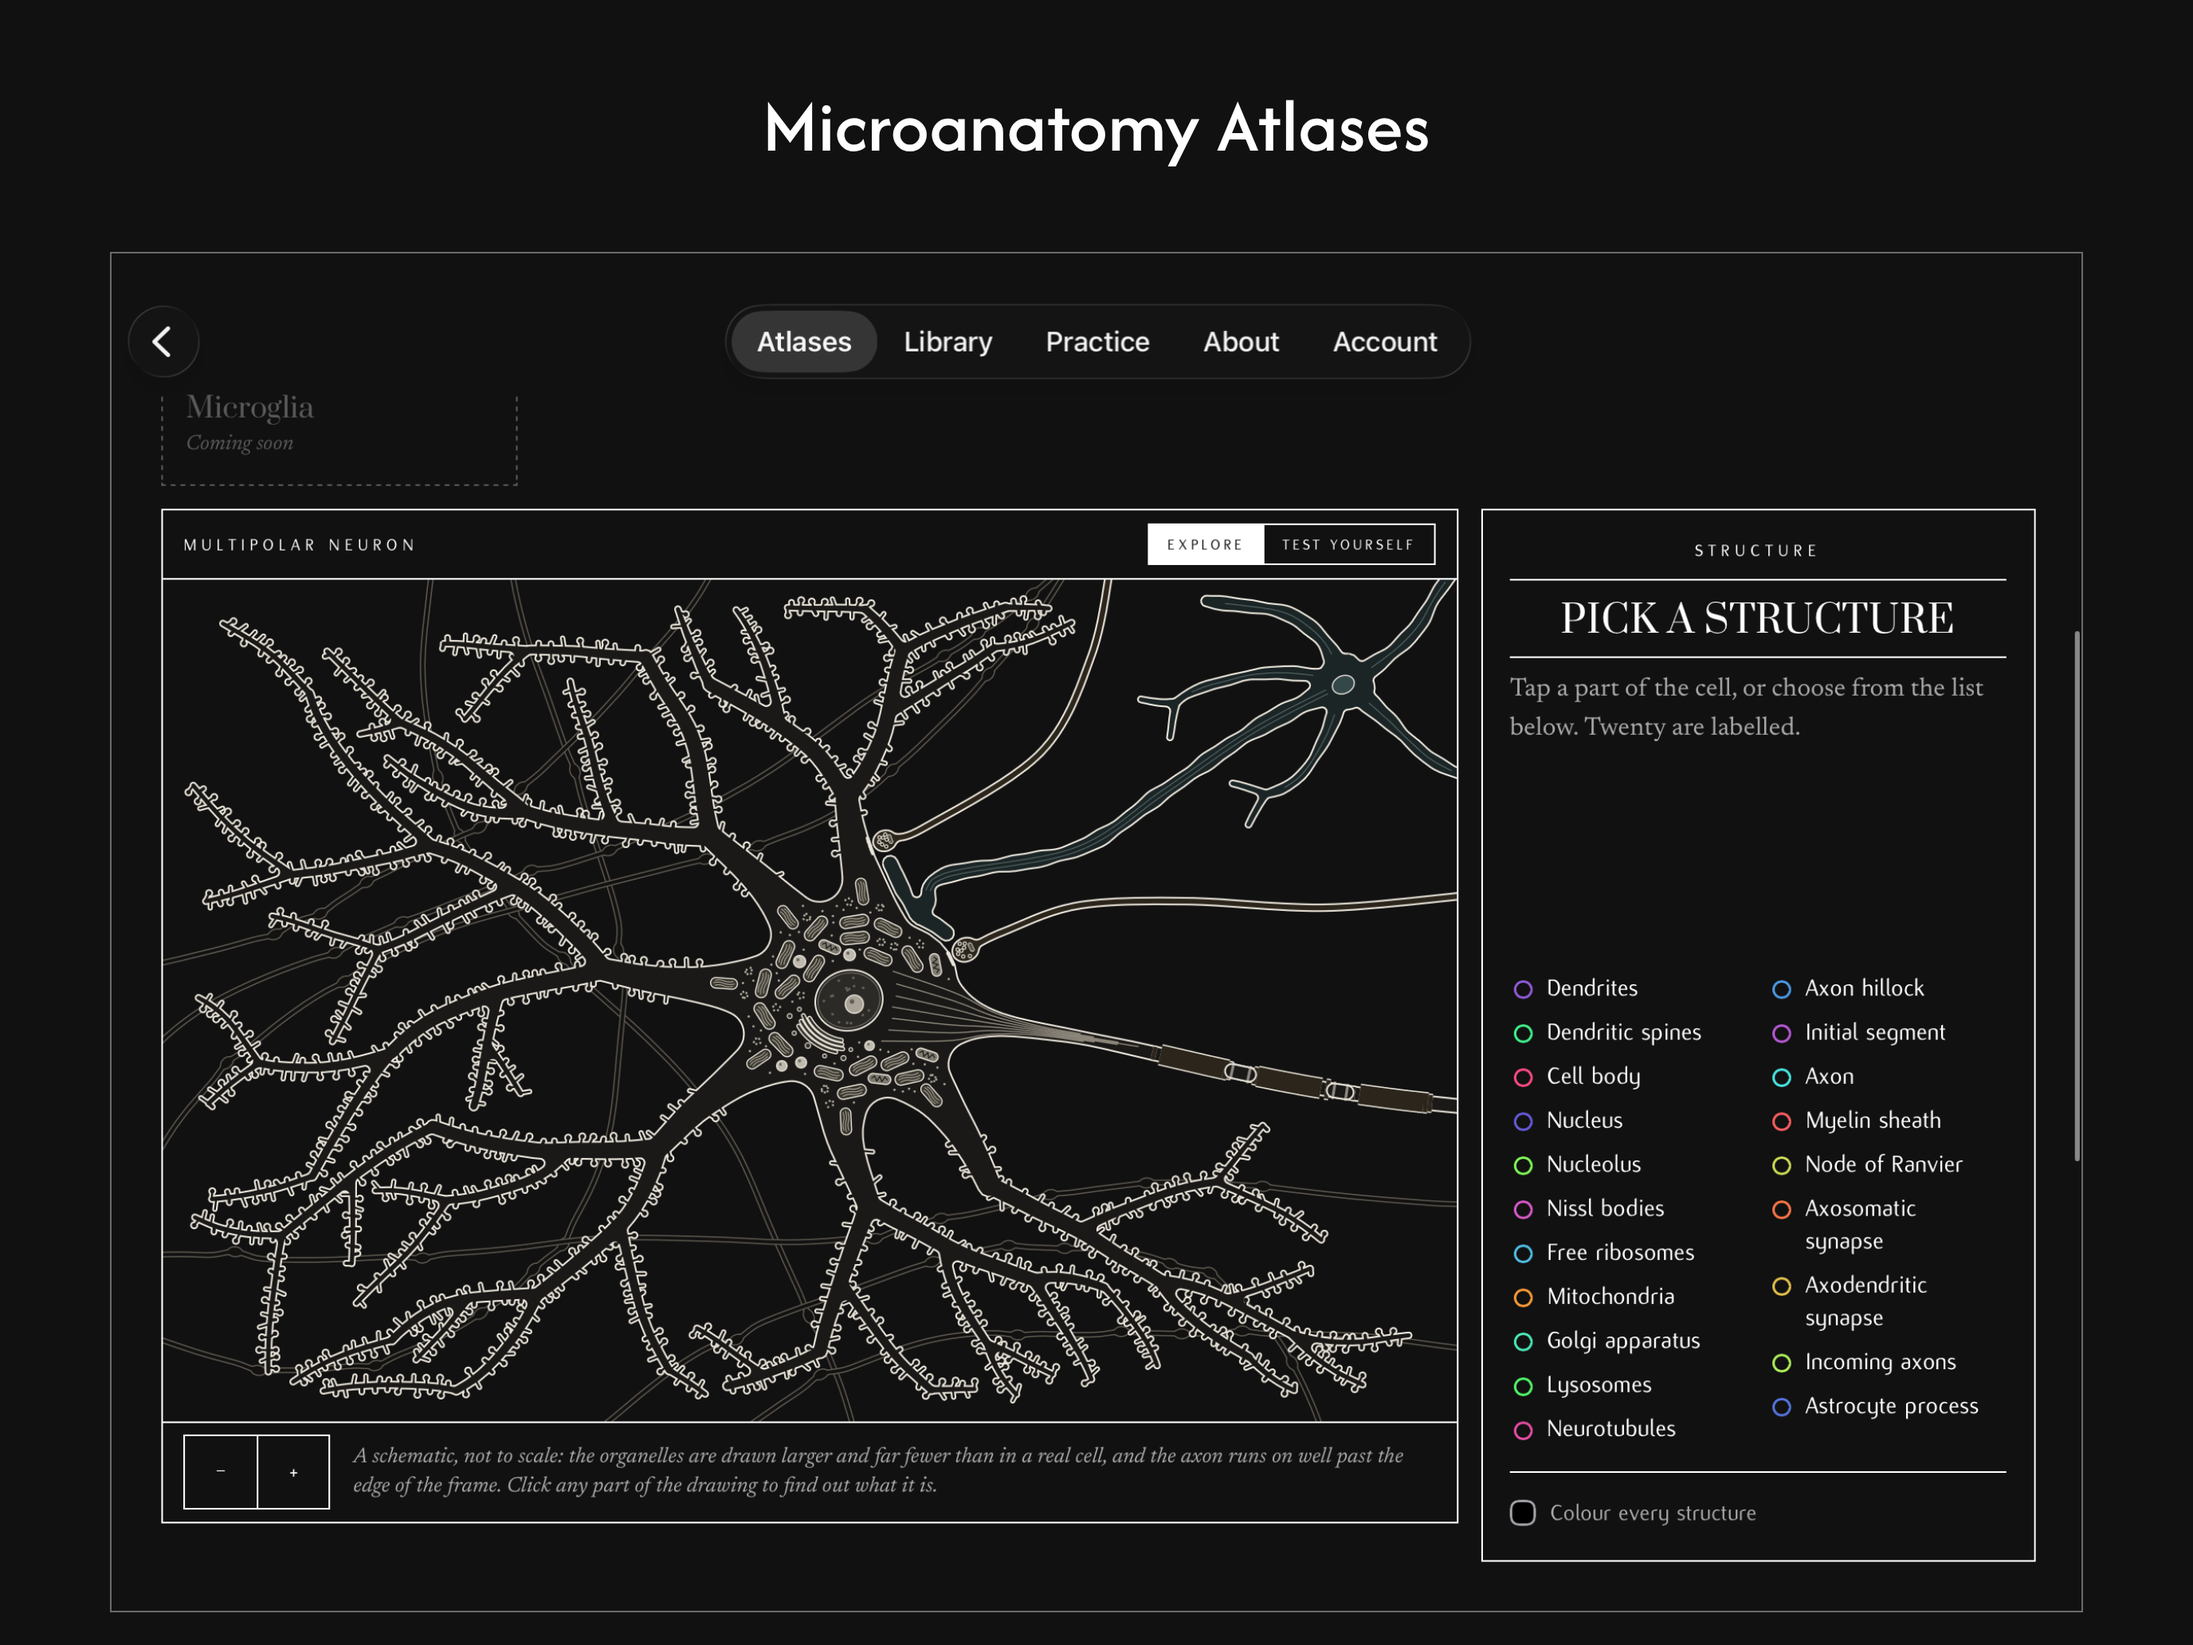
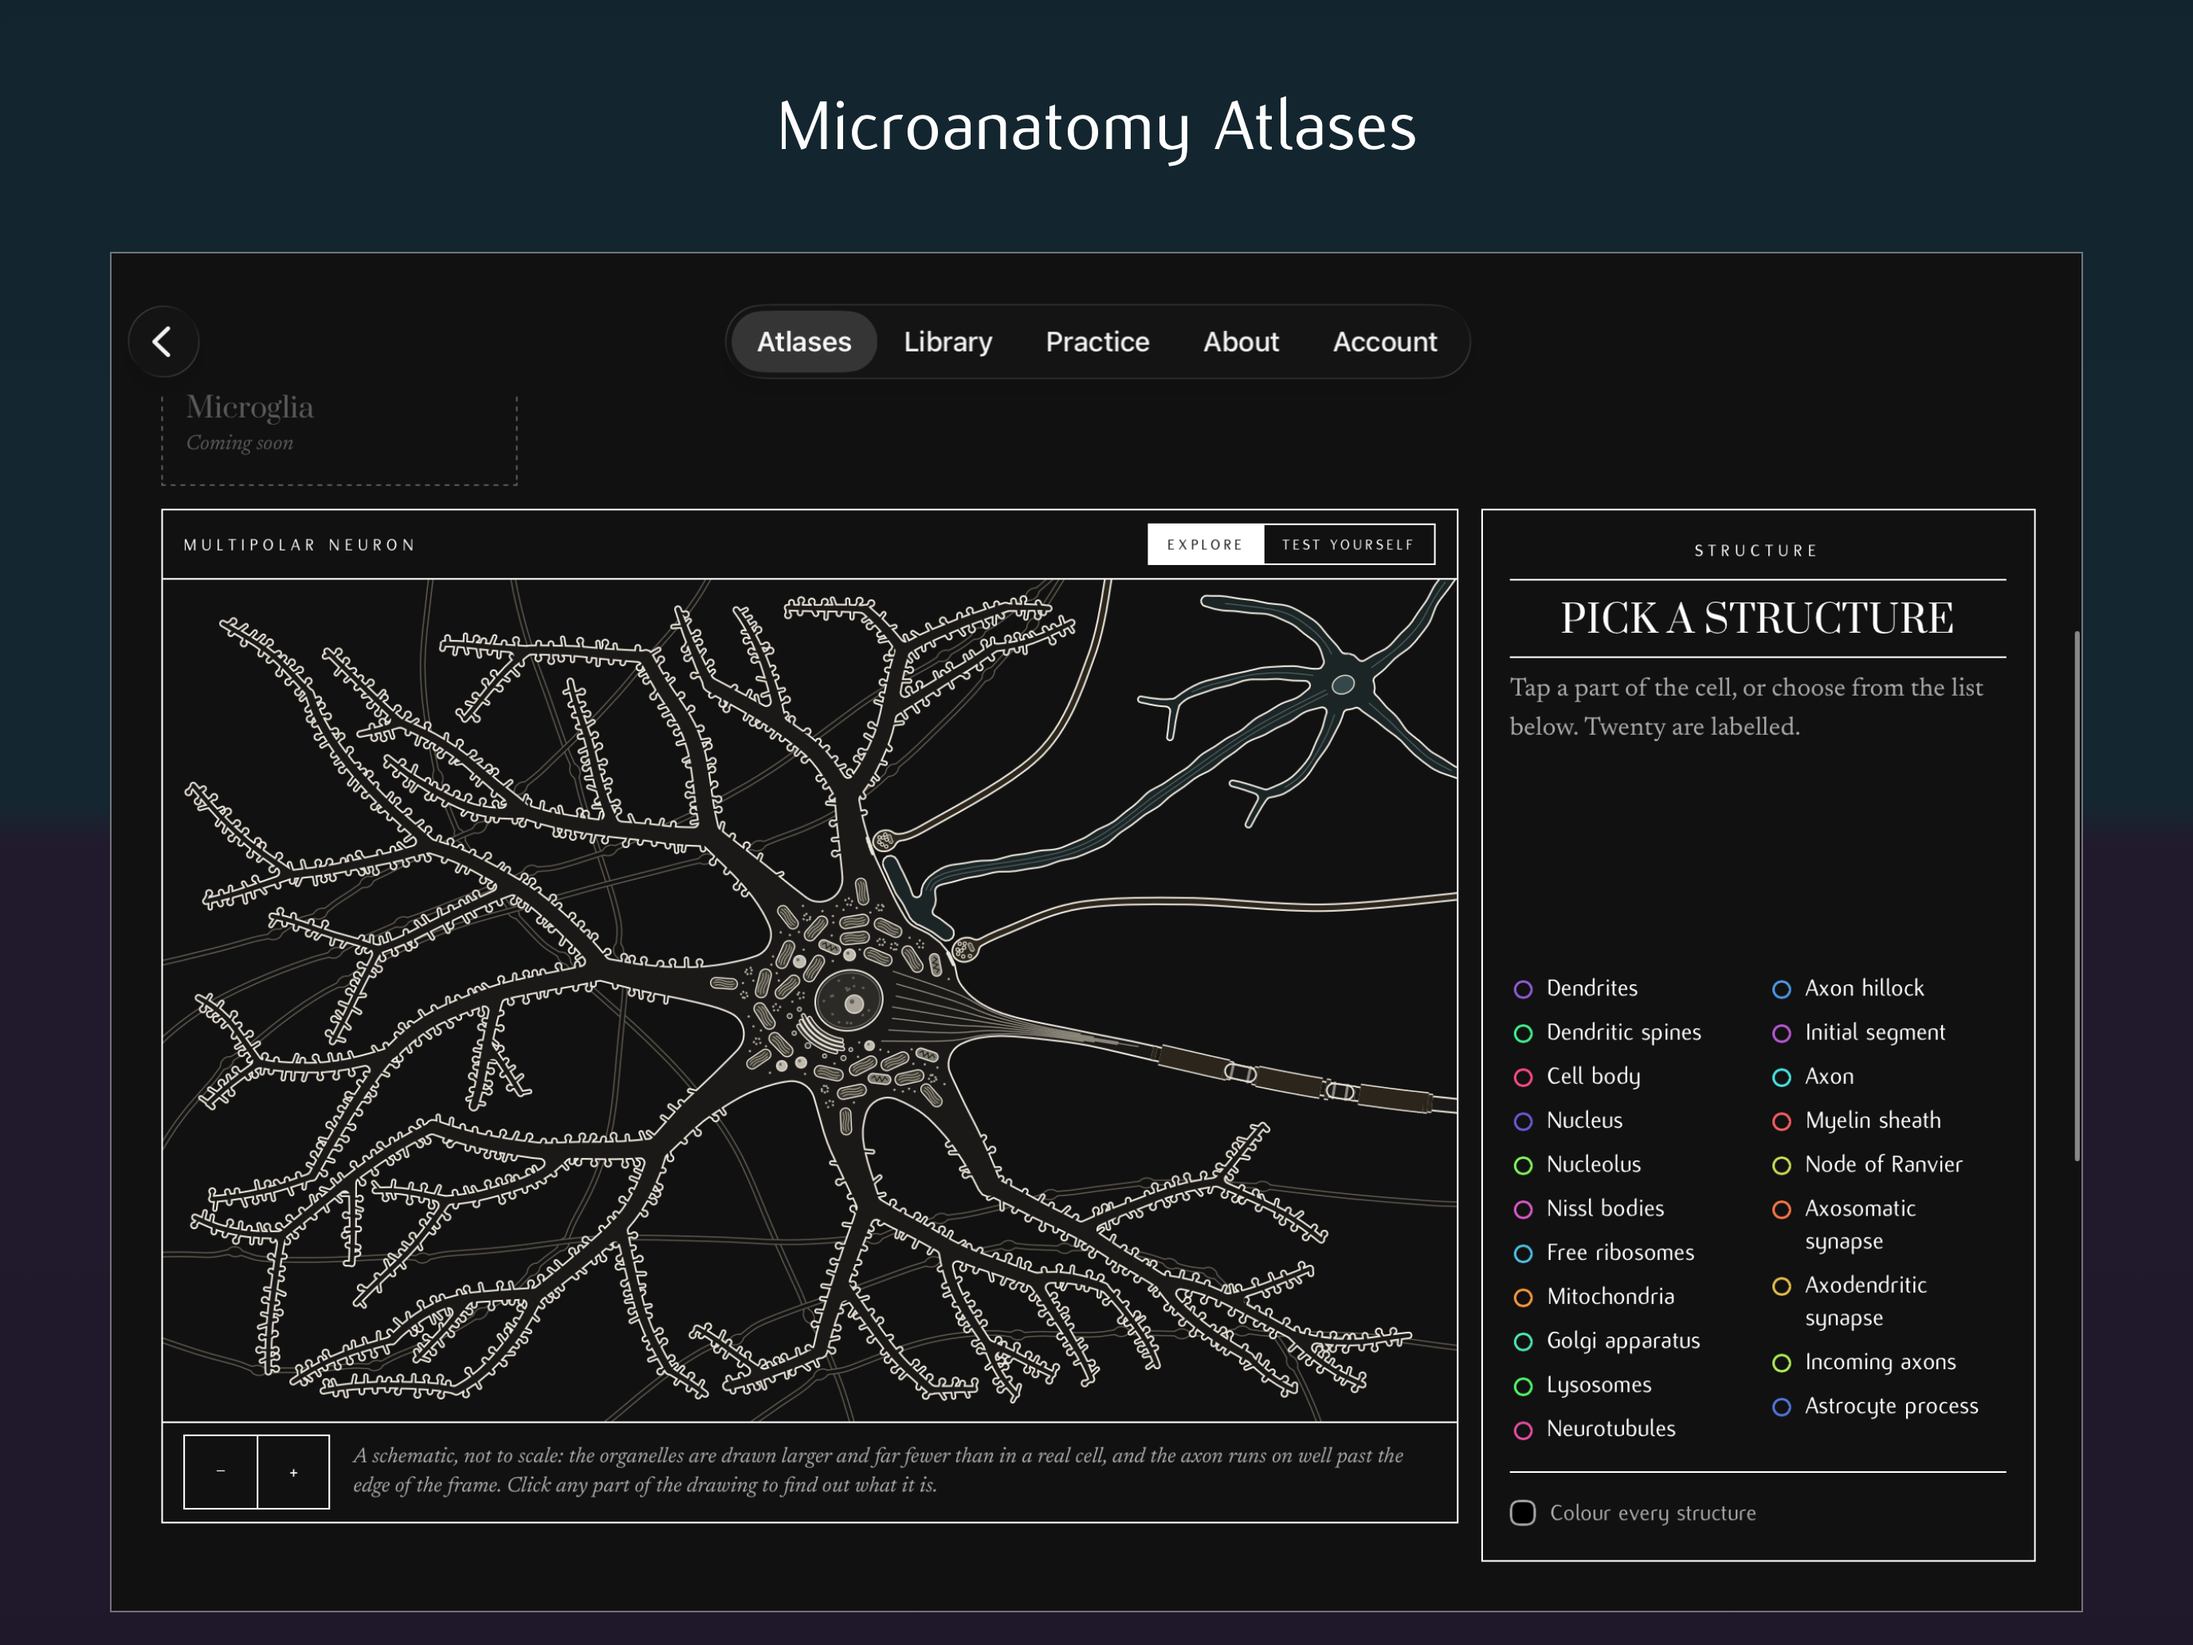
Set the store images on the molecular viewer's backdrop, in Flux
At the owner's word the eighteen App Store images stand on the backdrop of
the molecular viewer rather than the paper black: the extracellular teal
above and the cytoplasm's plum below, meeting at the frame's middle with the
faint glow the viewer's shader gives the horizon, drawn by the same formula
in stops down the frame. The statement is set in Flux, the site's brand
face, in place of Afacad Flux, which stays as its fallback. The listing's
note on the images says so.

Changed region(s): [[0.0, 0.0, 1.0, 1.0]]

diff --git a/app/scripts/store-sell.js b/app/scripts/store-sell.js
@@ -1,5 +1,6 @@
-/* A store screenshot with the sell above it: a statement in the brand face
-   on the paper black, and the capture beneath, its status bar covered.
+/* A store screenshot with the sell above it: a statement in Flux, the
+   site's brand face, on the molecular viewer's backdrop, and the capture
+   beneath, its status bar covered.
 
      node app/scripts/store-sell.js <capture.png> <out.png> "<statement>" [family] [bar]
 
@@ -21,6 +22,10 @@
    The statement's lines are balanced, and a "|" in it forces a break: the
    lines it marks are set a little smaller when that keeps each on one line,
    and a statement too long for the band is set smaller until it fits.
+   The ground is the viewer's backdrop (scripts/molecular/viewer/t4_common.js):
+   the extracellular teal above the horizon and the cytoplasm's plum below,
+   a sharp step with a faint glow about it, drawn here by the same formula
+   down the frame with the horizon at its middle.
    Runs here with Playwright from the global modules (NODE_PATH) and the
    site's own fonts, inlined. */
 const path = require('path'), fs = require('fs'), { execSync } = require('child_process');
@@ -50,13 +55,31 @@ if (landscape){
 const fontPx = landscape ? Math.round(W / 29) : Math.round(W / 15);
 const textW = landscape ? Math.round(capW * 0.92) : Math.round(W * 0.88);
 const lines = statement.split('|').map(s => s.trim()).filter(Boolean);
+/* the viewer's backdrop as a gradient: its two colours (base.css, dark), the shader's
+   smoothstep split at a 32° field's horizon and its glow, two hundredths here as the
+   device shows it, in stops down the frame */
+const TOP = [0x0F, 0x22, 0x2B], BOT = [0x1C, 0x15, 0x27];
+const smooth = (a, b, x) => { const t = Math.min(1, Math.max(0, (x - a) / (b - a))); return t * t * (3 - 2 * t); };
+const tanHalf = Math.tan(16 * Math.PI / 180);
+const ts = [];
+for (let i = 0; i <= 96; i++) ts.push(i / 96);
+ts.push(0.5 - 0.01 / (2 * tanHalf), 0.5 + 0.01 / (2 * tanHalf));
+ts.sort((a, b) => a - b);
+const stops = ts.map(t => {
+  const dy = (0.5 - t) * 2 * tanHalf;
+  const s = smooth(-0.01, 0.01, dy), h = 1 - smooth(0, 0.75, Math.abs(dy));
+  const c = TOP.map((v, k) => Math.round(Math.min(255, BOT[k] + (v - BOT[k]) * s + h * 0.02 * 255)));
+  return `rgb(${c.join(',')}) ${(t * 100).toFixed(2)}%`;
+}).join(', ');
 const html = `<!doctype html><meta charset="utf-8"><style>
+@font-face{ font-family:'Flux'; font-weight:400; src:url(${font('Flux-Regular.woff2')}) format('woff2'); }
 @font-face{ font-family:'Afacad Flux'; font-weight:500; src:url(${font('afacad-flux-latin-500-normal.woff2')}) format('woff2'); }
 @font-face{ font-family:'Newsreader'; font-style:italic; font-weight:400; src:url(${font('newsreader-latin-400-italic.woff2')}) format('woff2'); }
 *{ margin:0; padding:0; box-sizing:border-box; }
-html, body{ width:${W}px; height:${H}px; background:#111111; overflow:hidden; }
+html, body{ width:${W}px; height:${H}px; background:#0F222B; overflow:hidden; }
+body{ background:linear-gradient(180deg, ${stops}); }
 .sell{ position:absolute; left:0; right:0; top:0; height:${band}px; display:flex; align-items:center; justify-content:center; text-align:center; }
-.sell h1{ font-family:'Afacad Flux', sans-serif; font-weight:500; font-size:${fontPx}px; line-height:1.12; letter-spacing:.005em; color:#FFFFFF; max-width:${textW}px; text-wrap:balance; }
+.sell h1{ font-family:'Flux', 'Afacad Flux', sans-serif; font-weight:400; font-size:${fontPx}px; line-height:1.12; letter-spacing:.005em; color:#FFFFFF; max-width:${textW}px; text-wrap:balance; }
 .cap{ position:absolute; left:${side}px; top:${band}px; width:${capW}px; height:${capH}px; border:2px solid rgba(255,255,255,.38); overflow:hidden; }
 .cap canvas{ display:block; width:${capW}px; height:${capH}px; }
 #src{ position:absolute; left:-99999px; top:0; }

diff --git a/app/store/LISTING.md b/app/store/LISTING.md
@@ -161,12 +161,14 @@ bar, not the tab bar the app has had since v11. Retake the iOS sets from the
 simulator or a device before submitting 1.1; the Android sets stand.
 
 A capture from a device becomes a store image with the sell above it through
-`app/scripts/store-sell.js`: the statement in the brand face on the paper
-black, the capture framed beneath at the store's size (the 13-inch iPad
-sideways by default, upright and the 6.9-inch iPhone by name), its status bar
-painted over rather than cut off, so the capture keeps its shape. A "|" in
-the statement forces the line break. The images made this way live in
-`app/store/sell/`.
+`app/scripts/store-sell.js`: the statement in Flux, the site's brand face, on
+the molecular viewer's backdrop (the extracellular teal over the cytoplasm's
+plum, meeting at the frame's middle), the capture framed beneath at the
+store's size (the 13-inch iPad sideways by default, upright and the 6.9-inch
+iPhone by name), its status bar painted over in the capture's own ground
+rather than cut off, so the capture keeps its shape. A "|" in the statement
+forces the line break. The images made this way live in `app/store/sell/`,
+nine for the iPad and nine for the iPhone.
 
 Check the build number on the 1.0 page first. If 1.0 went out as build 14
 rather than 15, the second block is new to App Store users as well and goes
